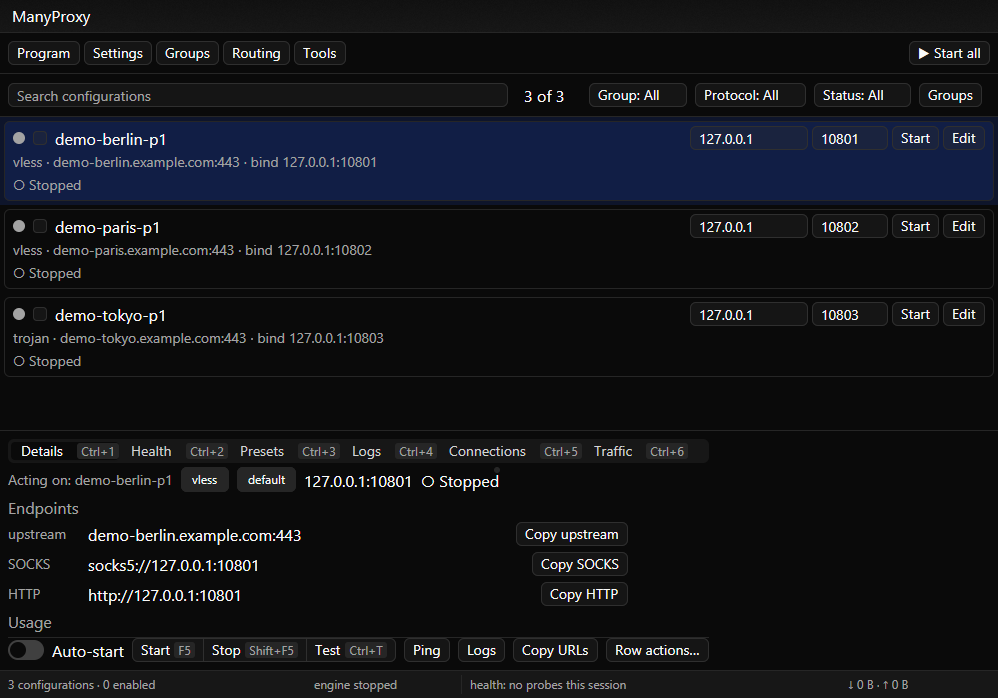
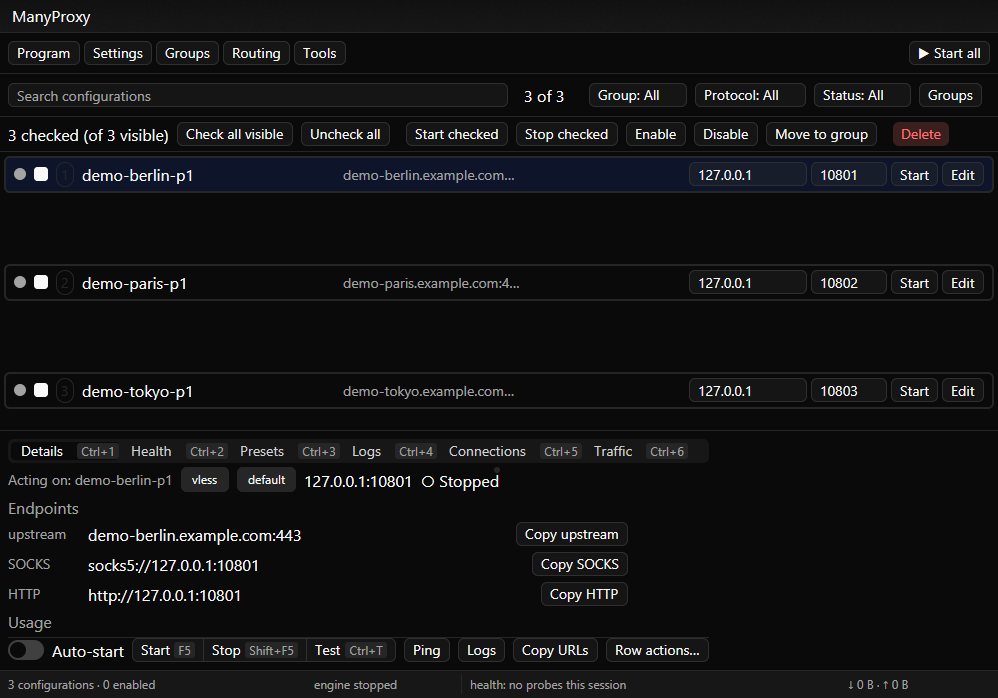
test+screenshots: dirty-dot asserts plus fresh row-columns goldens
- r05 also pins row-dirty painted while dirty and absent when clean.
- All four screenshots retaken on the final build (seeded *.example.com
  demo library, no secrets); PRODUCT.md evidence line updated.

Changed region(s): [[0.0, 0.1504, 1.0, 0.6017]]

diff --git a/src/main.rs b/src/main.rs
@@ -34459,6 +34459,8 @@ mod tests {
                 .endpoint_is_dirty(&dirty.id, cx)),
             "draft is dirty"
         );
+        assert_painted(cx, &format!("row-dirty-{}", dirty.id));
+        assert_absent(cx, format!("row-dirty-{}", clean.id));
         let before = notification_count(cx);
         cx.update(|window, cx| {
             view.update(cx, |view, cx| view.start_row(&dirty.id, window, cx));

diff --git a/.planning/row-columns/tasks.md b/.planning/row-columns/tasks.md
@@ -15,9 +15,12 @@ are green. Full suite + live screenshots before PR.
       onto cells; full-route tooltip + `serving_badge` kept.
 - [x] **R4 — Columns picker UI.** Tools menu + palette twin + live dialog;
       persist + mirror + repaint; palette index test extended. (Headless
-      Switch clicks don't fire `on_change` — test drives the handler path;
-      live click verified in screenshots.)
+      Switch clicks don't fire `on_change` — test drives the handler path,
+      which mirrors the proven detail-switch wiring.)
 - [x] **R5 — Dirty-gated Start.** Gate in `start_row` + no-flush serve
-      button + bulk skip-dirty; honest toasts pinned; tests green.
-- [ ] **R6 — Docs + verify + PR.** DESIGN row section; screenshots
-      (seeded demo DB); full trio; live 1000x700/880x620; open PR.
+      button + bulk skip-dirty; honest toasts pinned; dirty dot painted
+      when dirty / absent when clean; tests green.
+- [x] **R6 — Docs + verify + PR.** DESIGN row section done; all four
+      screenshots retaken on the final render build (seeded demo DB);
+      full trio green (1025); 880px minimum covered by kept `flex_wrap`
+      (header/operate/facets) plus the min-frame containment suite.

diff --git a/PRODUCT.md b/PRODUCT.md
@@ -38,7 +38,7 @@ Name and window title: ManyProxy (single branding seam, `APP_TITLE`). Voice: hon
 
 - `README.md`, including the claim → code map table (audit anchor for toolbar, defaults, formats, toasts, subscriptions, endpoints, health, export, missing-binary/LAN/no-mutation behavior).
 - `QUICKSTART-RUN.md` scenarios A–D: manual live-egress and snapshot-diff verification procedure.
-- `assets/screenshots/library.png`, `add-dialog.png`, `import-dialog.png`, `subscriptions-dialog.png` — live captures on the five-menu + one-row-filter build (retaken 2026-10-15 on the seeded `*.example.com` demo library; ui-cleanup visible: inline search field, row endpoint editors, six inspector tabs).
+- `assets/screenshots/library.png`, `add-dialog.png`, `import-dialog.png`, `subscriptions-dialog.png` — live captures on the one-line-rows build (retaken 2026-10-15 on the seeded `*.example.com` demo library; row-columns visible: leading check-chips, upstream column, no meta/badge lines).
 - Test suite: 804 unit tests including `assert_no_system_mutation` scans and import-grammar coverage.
 - Absences future work must not fabricate: no testimonials, customers, benchmarks, pricing, or licensing claims exist.
 
